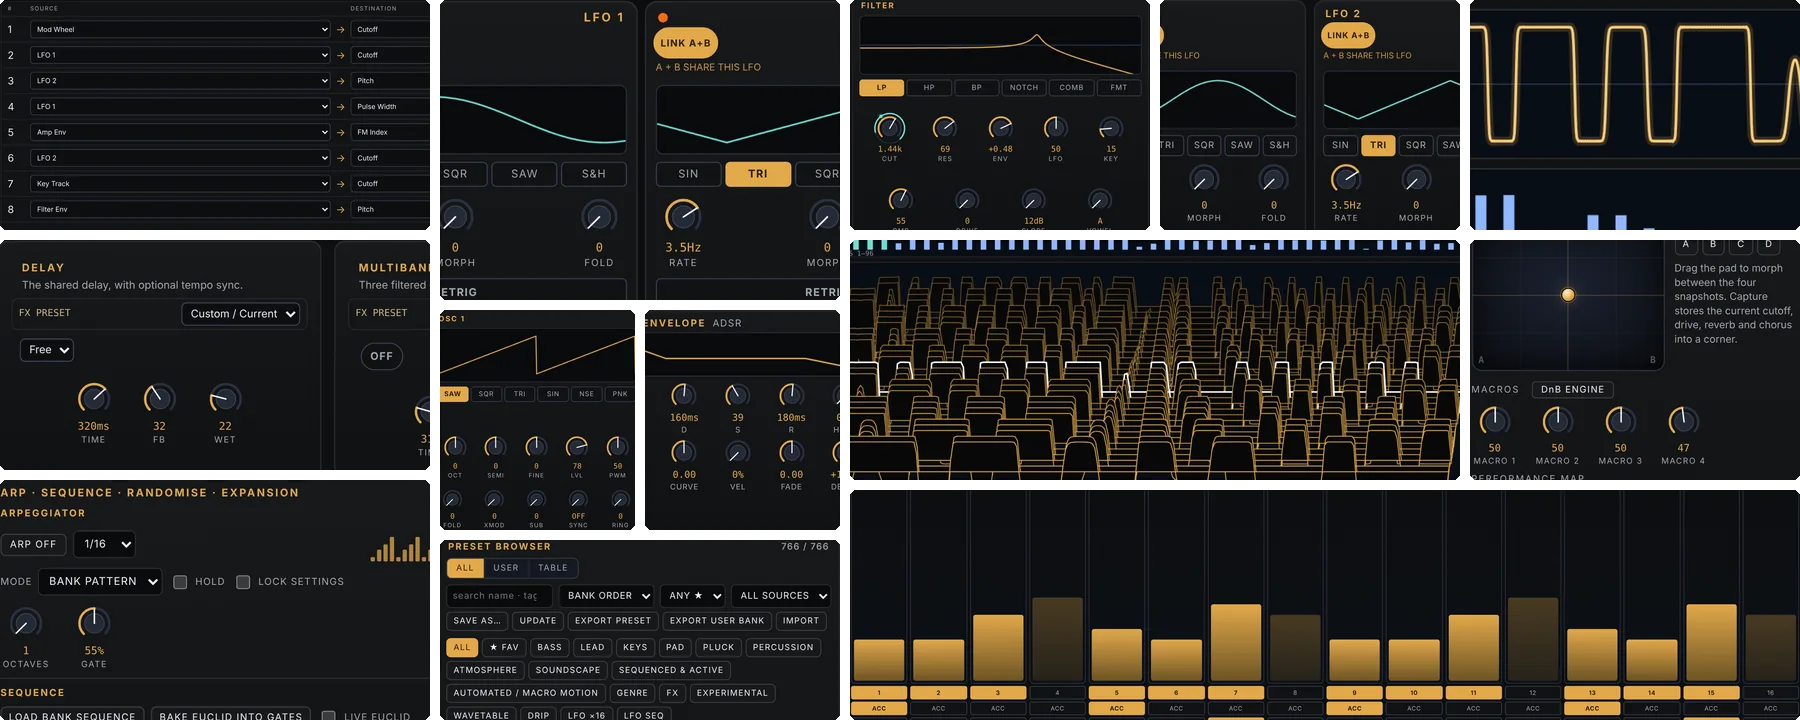
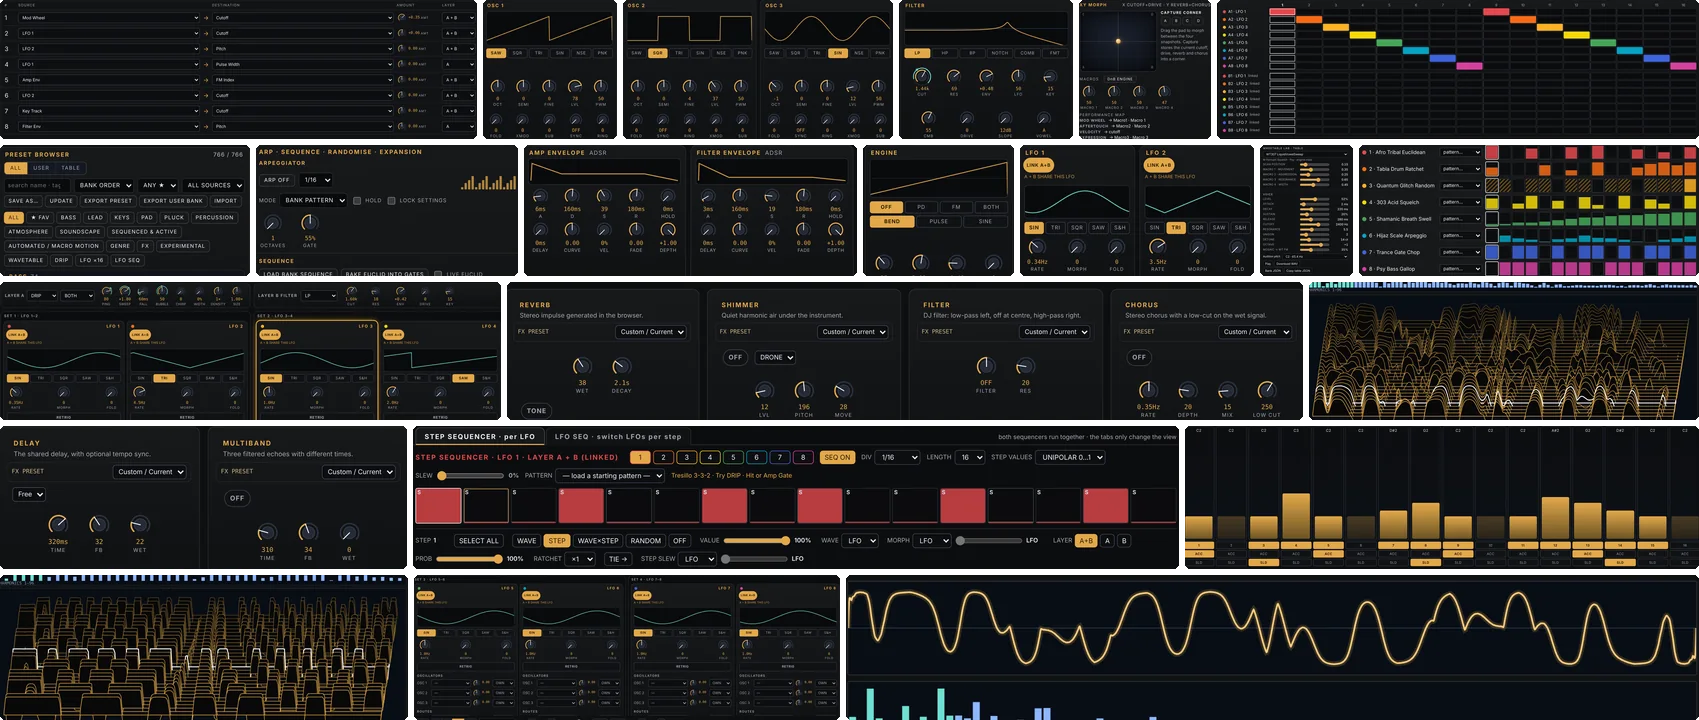
Mosaic hero collage: more, smaller tiles incl. LFO SEQ, step lanes, wavetable motion and drip; softer right edge
Claude-Session: https://claude.ai/code/session_01K66MQfecUFADmvf8sLN59k

diff --git a/mosaic.html b/mosaic.html
@@ -458,9 +458,9 @@ article.instrument > details.instrument-details .detail-body {
 </style>
 <style id="hero-collage">
 /* Mosaic screens tiled on the right of the hero: fully visible at the right edge, fading out towards the text */
-.hero-collage{position:absolute;top:0;right:0;bottom:0;width:min(64%,1060px);z-index:0;pointer-events:none;
+.hero-collage{position:absolute;top:0;right:0;height:100%;aspect-ratio:1699/720;max-width:72%;z-index:0;pointer-events:none;
   background:url(mosaic-collage.webp) right center/cover no-repeat;
-  -webkit-mask-image:linear-gradient(to left,#000 0%,#000 28%,transparent 96%);mask-image:linear-gradient(to left,#000 0%,#000 28%,transparent 96%)}
+  -webkit-mask-image:linear-gradient(to left,rgba(0,0,0,.76) 0%,rgba(0,0,0,.66) 30%,transparent 96%);mask-image:linear-gradient(to left,rgba(0,0,0,.76) 0%,rgba(0,0,0,.66) 30%,transparent 96%)}
 @media(max-width:760px){.hero-collage{display:none}}
 </style>
 </head><body><a class="skip" href="#download">Skip to download</a><header><div class="shell nav"><a aria-label="CONTINUUM home" class="brand" href="./">CONTINUUM</a><nav aria-label="Main navigation" class="navlinks"><a href="./#instruments">Instruments</a><a href="./#foldspace">Fold Space</a><a href="./#projects">Workshop</a><a href="./#workspace">Vision</a><div class="dl"><a class="dl-toggle" href="mosaic.html" role="button" aria-haspopup="true" aria-expanded="false" aria-controls="dl-menu">Downloads</a><div class="dl-menu" id="dl-menu"><a href="mosaic.html" aria-current="page">Mosaic Plugin<small>VST3 instrument · Windows</small></a><span class="soon">Fluidic FX<small>VST3 effect · page coming soon</small></span></div></div></nav></div></header><main id="top"><section class="hero"><div class="hero-collage" aria-hidden="true"></div><div class="shell hero-content"><div class="hero-main"><p class="eyebrow">Continuum · Downloads</p><h1>Mosaic VST3 Plugin</h1><p class="lead">Ready to play. Continuing to evolve.</p><div class="hero-install"><span class="hero-install-label">Install</span><div class="dl-block"><div class="category" id="version">Version 0.1.0.6 · VST3 instrument + standalone app · Windows 10 / 11 · 64-bit · 7.3 MB</div></div></div><div class="actions"><a class="btn primary" href="https://github.com/stefanoPollina/MOSAIC_PLUGIN/releases/latest/download/Mosaic-Windows-Setup.exe">Download for Windows</a><a class="btn" href="https://github.com/stefanoPollina/MOSAIC_PLUGIN/releases/latest/download/Mosaic-Windows-Plugins.zip">Download ZIP</a></div></div></div></section> <section class="section shell" id="download">
